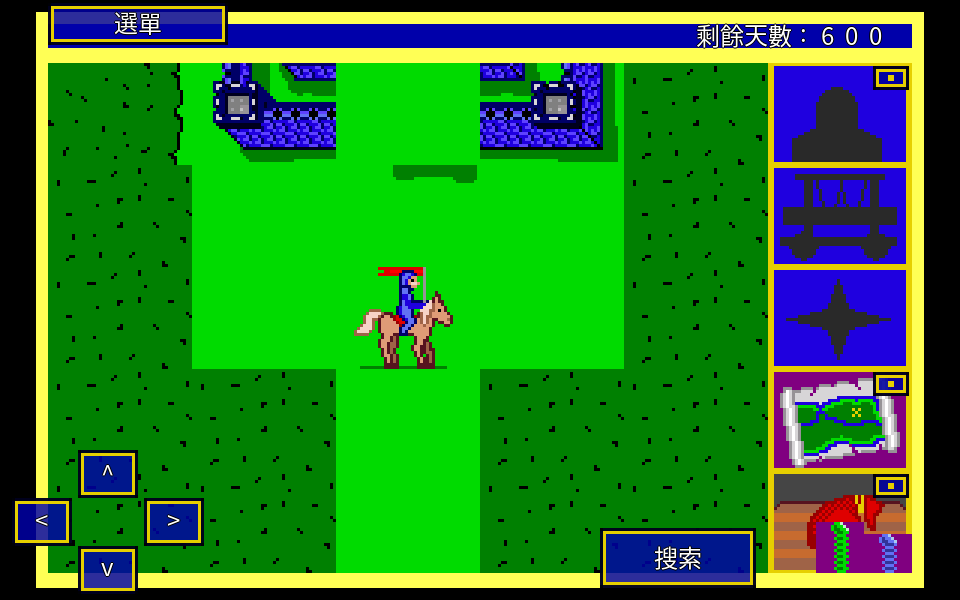
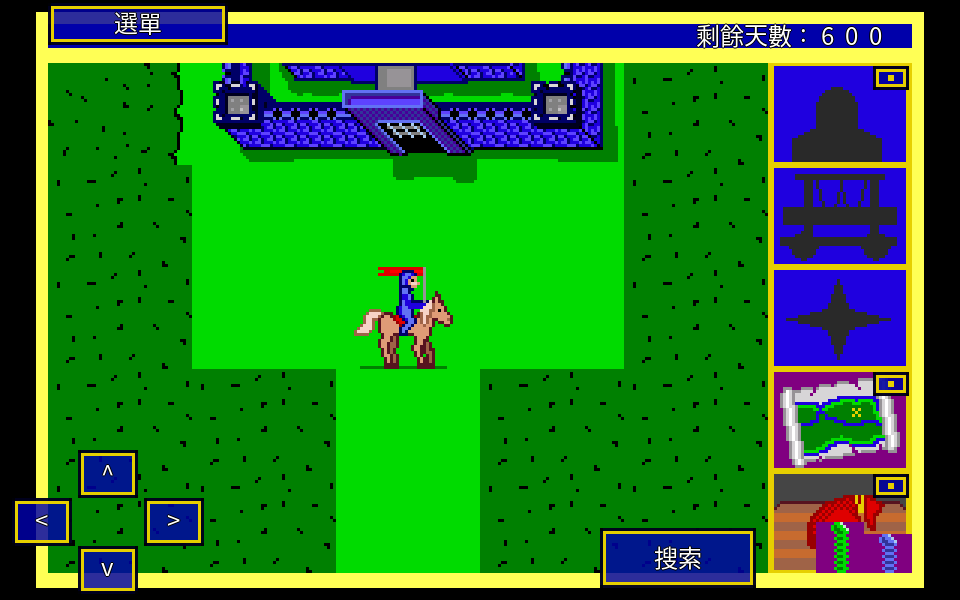
fix(render): 世界地圖繪圖剝除互動位,修正城堡/城鎮等實體格缺圖
地圖 cell 的高位(bit7)是「可踩上互動」標記(城堡入口 0x85、城鎮 0x8A、
寶箱 0x8B、巢穴等)。C 版 KB_GetMapTile(game.c:1012)繪圖前 `& 0x7F` 剝除
此位,圖案 = m & 0x7F(0x85→5 城門、0x8A→10 城鎮…)。

Go 的 TileImage 未剝除:m=0x85(133)>71 直接退回 tile 0(草),導致國王城堡
中央城門格被畫成草地、城堡斷成左右兩半;所有帶互動位的實體格同樣受影響。

修法:TileImage 入口加 `m &= 0x7f`,對齊 C 語意。render 測試通過,並重產
docs/screenshots/readme_map.png、readme_menu.png(修正後 build)。

Changed region(s): [[0.3438, 0.09, 0.5, 0.3]]

diff --git a/internal/render/tileset.go b/internal/render/tileset.go
@@ -82,6 +82,11 @@ func (t *Tileset) TileImage(m byte) *ebiten.Image {
 	if t == nil {
 		return nil
 	}
+	// 剝除互動位(bit7):對齊 C KB_GetMapTile(game.c:1012)「WITH INTERACTIVITY BIT
+	// REMOVED」——地圖 cell 的高位標記「可踩上互動」(城堡入口 0x85、城鎮 0x8A、寶箱
+	// 0x8B、巢穴等),繪圖時圖案 = m & 0x7F(0x85→5 城門、0x8A→10 城鎮…)。不剝除的話
+	// m>71 會退回 tile 0(草),城堡中央城門格就被畫成草地、城堡斷成兩半(缺中央格)。
+	m &= 0x7f
 	sheet := t.tileseta
 	idx := int(m)
 	if idx >= tilesPerSheet {
